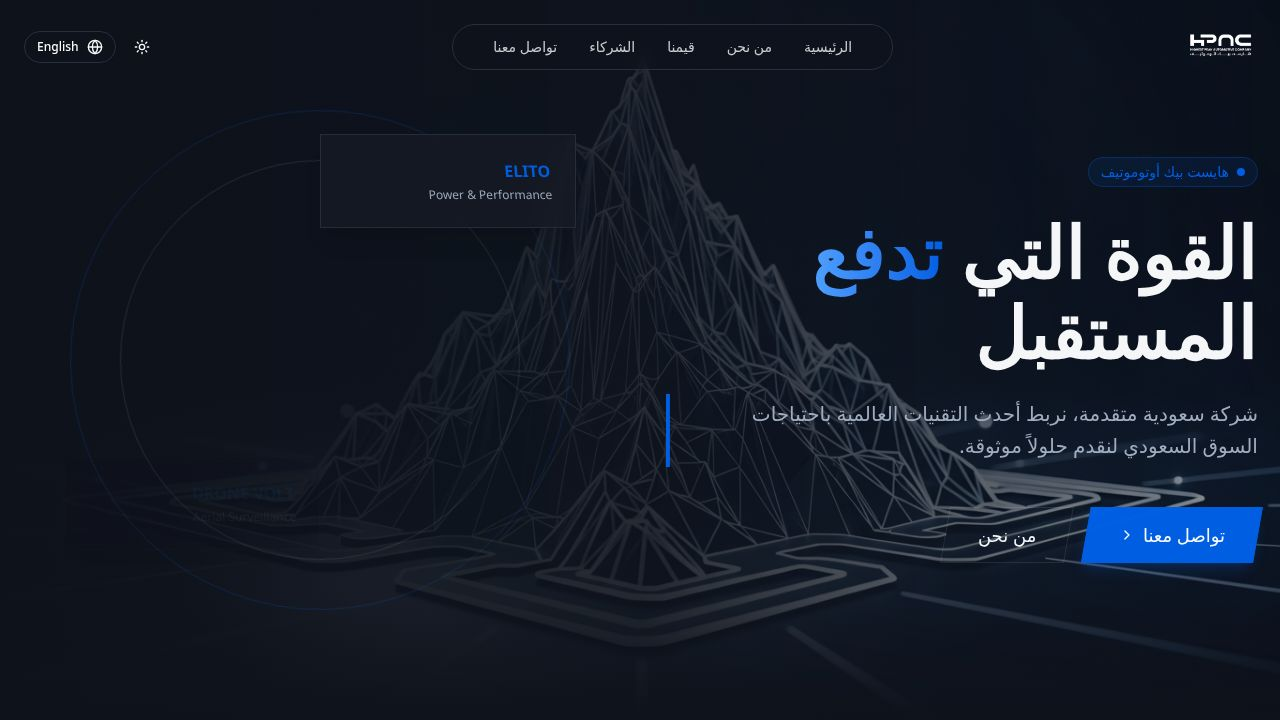
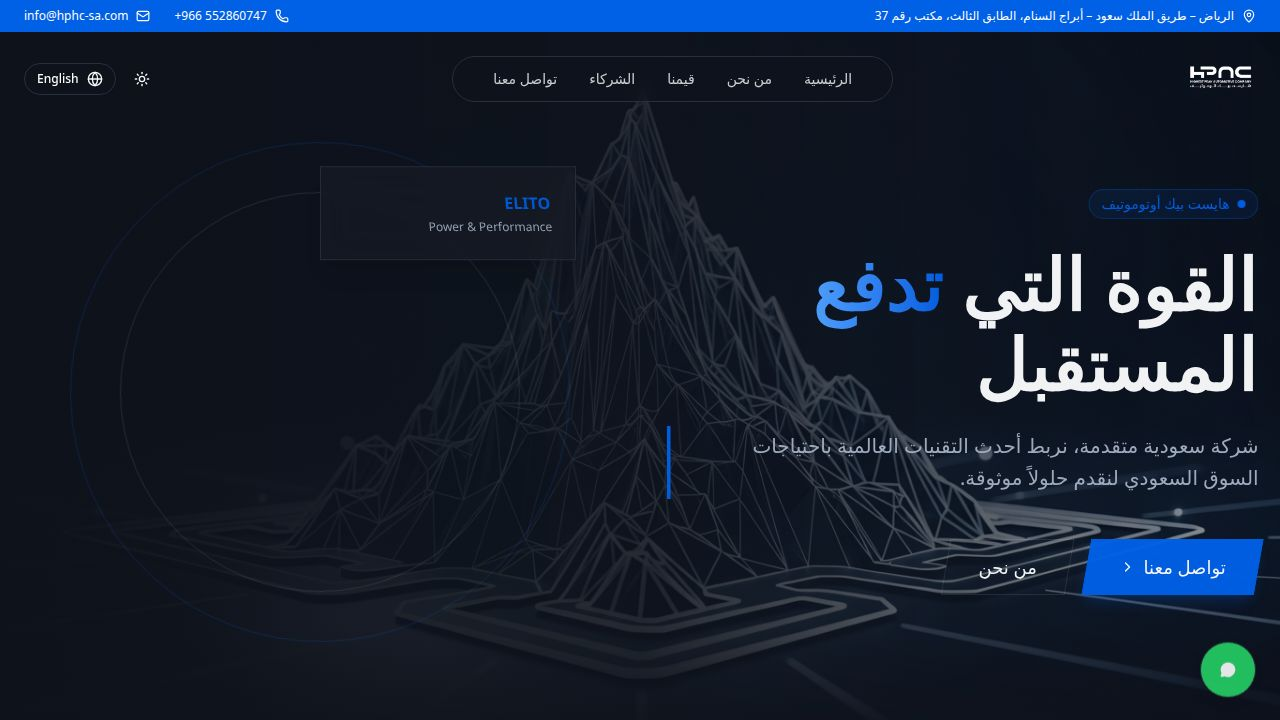
Add office contact details to the top of the navigation bar
Update the Navbar component to include a top bar displaying the office address, phone number, and email address.

Replit-Commit-Author: Agent
Replit-Commit-Session-Id: 59137fd0-c8f2-4a6c-8ef3-38785ee82eba
Replit-Commit-Checkpoint-Type: full_checkpoint
Replit-Commit-Event-Id: db60b620-3aa3-4a27-979a-85a70c59de95
Replit-Commit-Screenshot-Url: https://storage.googleapis.com/screenshot-production-us-central1/7395b150-47db-4055-975a-6a0c7dda3842/59137fd0-c8f2-4a6c-8ef3-38785ee82eba/Qr21PmW
Replit-Helium-Checkpoint-Created: true

diff --git a/client/src/components/Navbar.tsx b/client/src/components/Navbar.tsx
@@ -2,14 +2,14 @@ import { motion } from 'framer-motion';
 import { useLanguage } from '@/lib/i18n';
 import { useTheme } from '@/lib/theme';
 import { Button } from '@/components/ui/button';
-import { Globe, Menu, Sun, Moon } from 'lucide-react';
+import { Globe, Menu, Sun, Moon, Phone, Mail, MapPin } from 'lucide-react';
 import { useState, useEffect } from 'react';
 import { Sheet, SheetContent, SheetTrigger } from '@/components/ui/sheet';
 import hpacLogo from '@assets/_شركة_هايست_بيك_أوتوموتيف__1766994137275.png';
 import { ContactModal } from '@/components/ContactModal';
 
 export function Navbar() {
-  const { language, setLanguage, t } = useLanguage();
+  const { language, setLanguage, t, dir } = useLanguage();
   const { theme, setTheme } = useTheme();
   const [isOpen, setIsOpen] = useState(false);
   const [scrolled, setScrolled] = useState(false);
@@ -36,18 +36,39 @@ export function Navbar() {
     { key: 'about', href: '#about' },
     { key: 'values', href: '#values' },
     { key: 'partners', href: '#partners' },
-    // Removed direct href for contact to handle via modal
   ];
 
   const handleContactClick = (e: React.MouseEvent) => {
     e.preventDefault();
     setIsContactOpen(true);
-    setIsOpen(false); // Close mobile menu if open
+    setIsOpen(false);
   };
 
   return (
     <>
-      <nav className={`fixed top-0 left-0 right-0 z-50 transition-all duration-300 ${scrolled ? 'bg-background/90 backdrop-blur-md border-b border-border py-2' : 'bg-transparent py-6'}`}>
+      {/* Top Bar */}
+      <div className="bg-primary text-primary-foreground text-xs py-2 hidden lg:block relative z-[60]">
+        <div className="container mx-auto px-4 md:px-6 flex justify-between items-center">
+          <div className="flex items-center gap-6">
+            <div className="flex items-center gap-2">
+              <MapPin className="h-3.5 w-3.5" />
+              <span>{t('address')}</span>
+            </div>
+          </div>
+          <div className="flex items-center gap-6">
+            <a href="tel:+966552860747" className="flex items-center gap-2 hover:text-white/80 transition-colors">
+              <Phone className="h-3.5 w-3.5" />
+              <span dir="ltr">+966 552860747</span>
+            </a>
+            <a href="mailto:info@hphc-sa.com" className="flex items-center gap-2 hover:text-white/80 transition-colors">
+              <Mail className="h-3.5 w-3.5" />
+              <span>info@hphc-sa.com</span>
+            </a>
+          </div>
+        </div>
+      </div>
+
+      <nav className={`fixed top-8 left-0 right-0 z-50 transition-all duration-300 ${scrolled ? 'top-0 bg-background/90 backdrop-blur-md border-b border-border py-2' : 'bg-transparent py-6'}`}>
         <div className="container mx-auto px-4 md:px-6 flex items-center justify-between">
           {/* Logo */}
           <a href="#" className="flex items-center gap-2">
@@ -108,8 +129,24 @@ export function Navbar() {
                   <Menu className="h-6 w-6" />
                 </Button>
               </SheetTrigger>
-              <SheetContent side={language === 'ar' ? 'right' : 'left'} className="w-[300px] border-l-border bg-background/95 backdrop-blur-xl">
+              <SheetContent side={language === 'ar' ? 'right' : 'left'} className="w-[300px] border-l-border bg-background/95 backdrop-blur-xl overflow-y-auto">
                 <div className="flex flex-col gap-8 mt-8">
+                  {/* Mobile Contact Info */}
+                  <div className="flex flex-col gap-4 text-sm text-muted-foreground border-b border-border pb-4">
+                    <div className="flex items-center gap-2">
+                      <MapPin className="h-4 w-4 text-primary" />
+                      <span className="text-xs">{t('address')}</span>
+                    </div>
+                    <a href="tel:+966552860747" className="flex items-center gap-2">
+                      <Phone className="h-4 w-4 text-primary" />
+                      <span dir="ltr">+966 552860747</span>
+                    </a>
+                    <a href="mailto:info@hphc-sa.com" className="flex items-center gap-2">
+                      <Mail className="h-4 w-4 text-primary" />
+                      <span>info@hphc-sa.com</span>
+                    </a>
+                  </div>
+
                   <div className="flex flex-col gap-4">
                     {navItems.map((item) => (
                       <a
